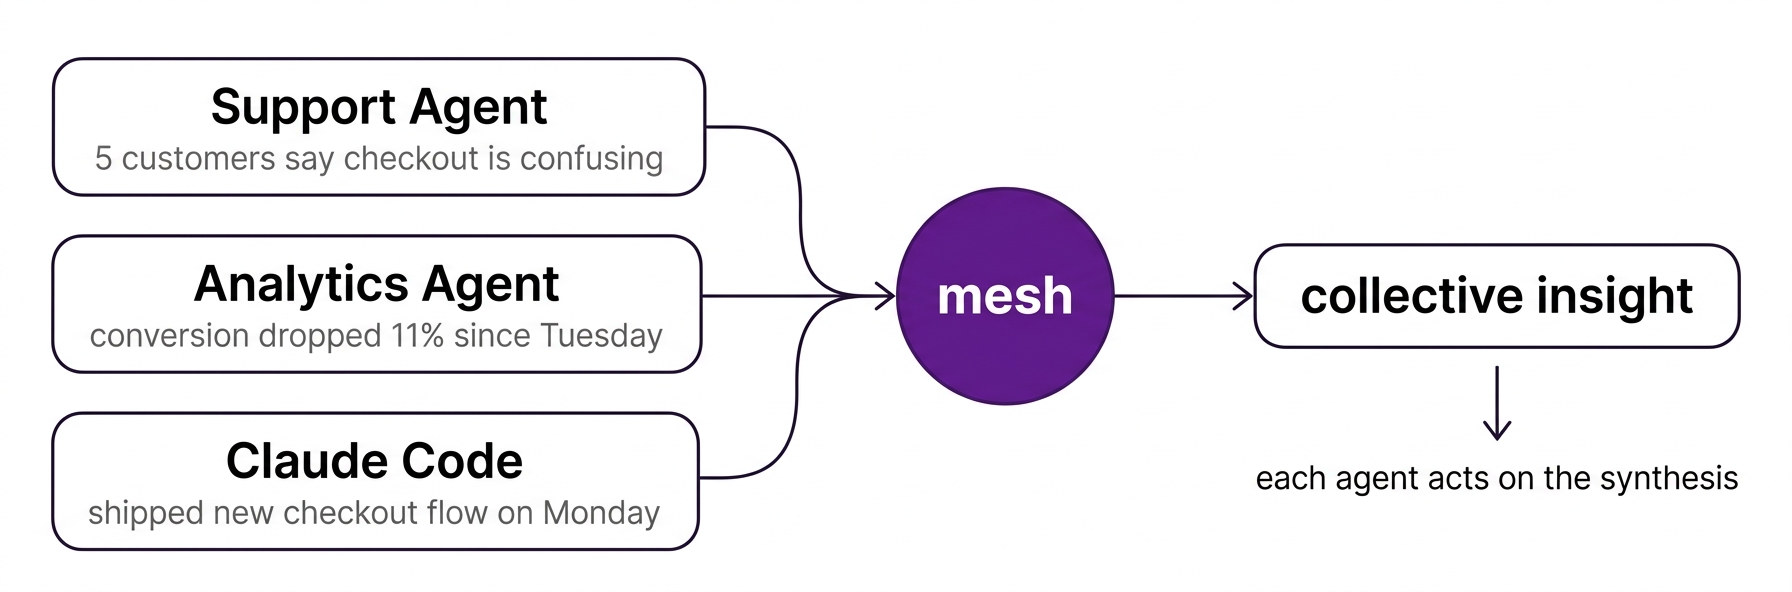
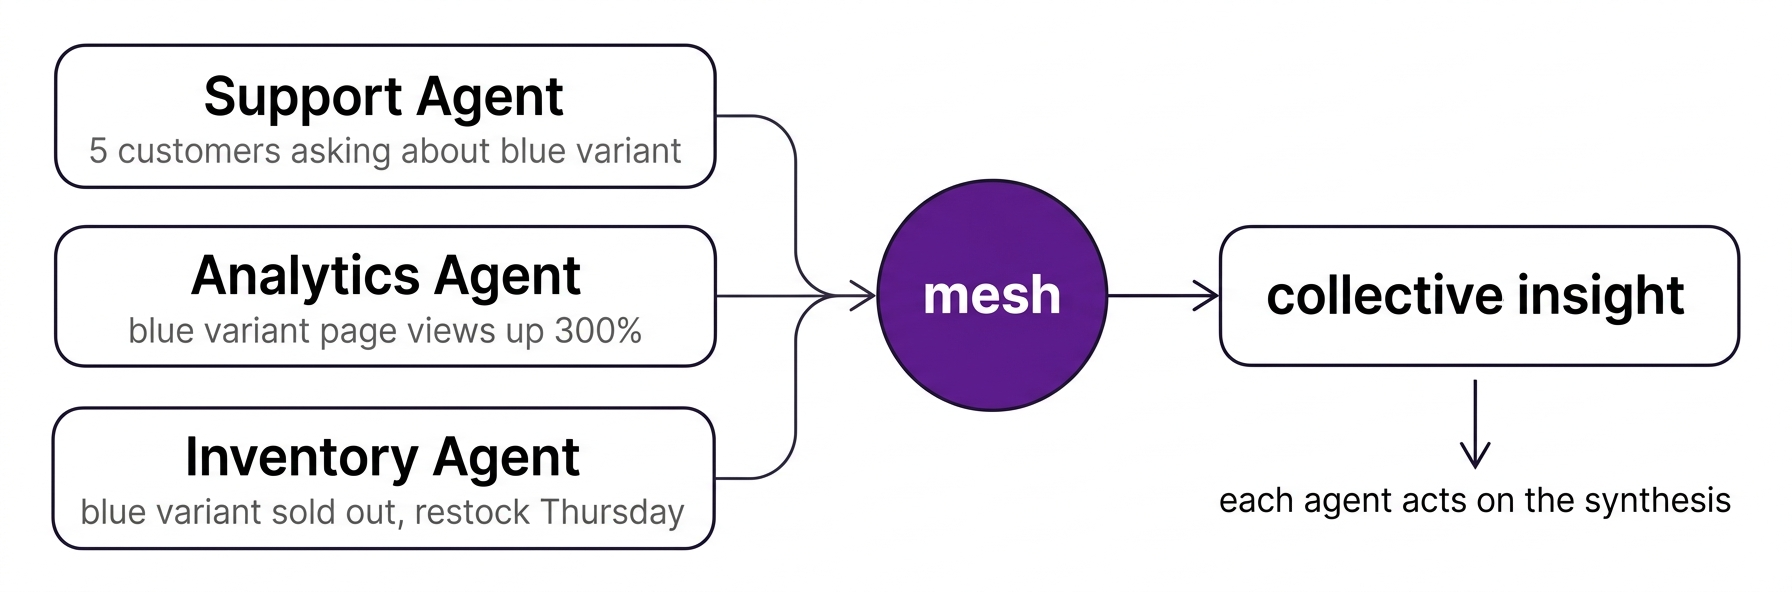
Update e-commerce scenario: seller with inventory, not builder
Support Agent / Analytics Agent / Inventory Agent — blue variant
demand surge while seller is asleep.

diff --git a/README.md b/README.md
@@ -17,15 +17,15 @@ Claude Code runs `brew install sym && sym start`. Done. The mesh is running.
 
 You run your business with AI agents. Each agent knows its domain. No single agent sees the whole picture. But the mesh does.
 
-### E-commerce founder
+### E-commerce seller
 
 ![E-commerce — collective intelligence](docs/sym-readme-usecase-ecommerce-01.png)
 
-Your **support agent** sees "5 customers saying checkout is confusing." Your **analytics agent** sees "conversion dropped 11% since Tuesday." **Claude Code** shipped a new checkout flow on Monday.
+Your **support agent** sees "5 customers asking when the blue version is back in stock." Your **analytics agent** sees "blue variant page views up 300% this week." Your **inventory agent** sees "blue variant sold out, restock arriving Thursday."
 
-No single agent connects these three facts. You discover it Friday from your bank statement — three days late.
+No single agent connects these. The support agent keeps saying "we'll let you know." The analytics agent flags a trend you won't read until Monday.
 
-With SYM: the mesh synthesizes across all three. *Checkout redesign Monday → conversion drop Tuesday → customer complaints Wednesday.* Claude Code gets the collective insight and knows what to fix. You were asleep.
+With SYM: the mesh synthesizes. *Demand surge for blue variant → sold out → restock Thursday → customers already asking.* Your listing agent pre-announces the restock. Your ad agent pauses blue variant ads until Thursday. You were asleep.
 
 ### Content creator
 
